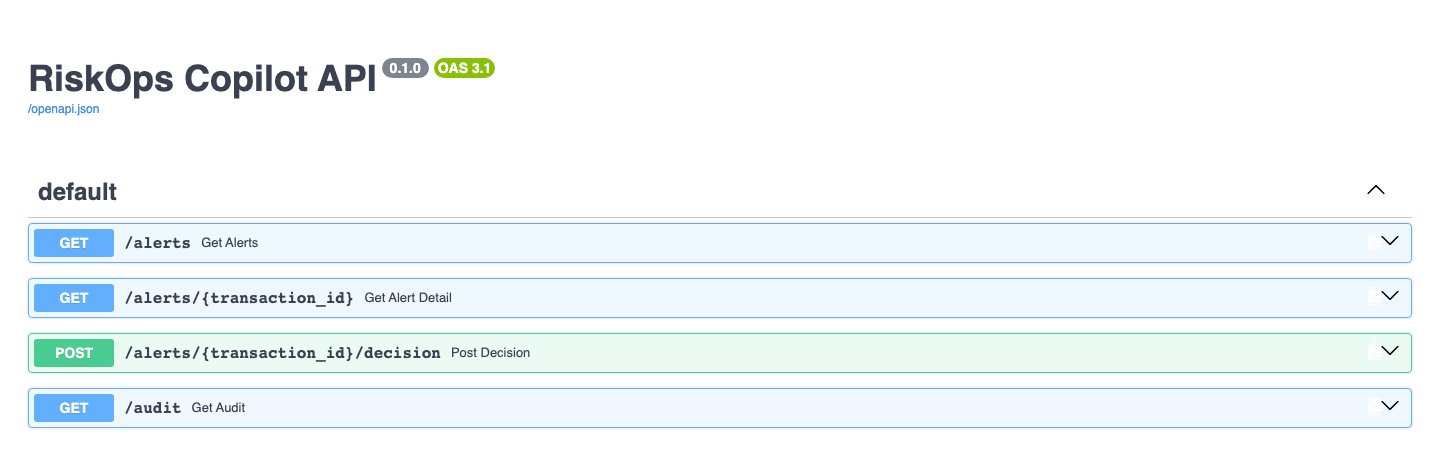
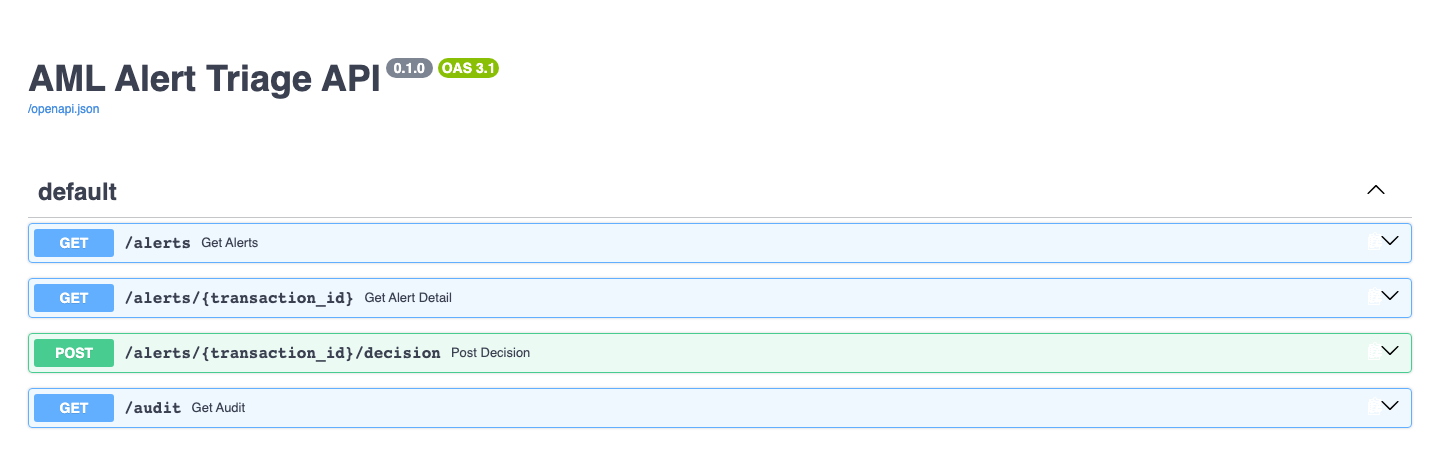
Clarifie la présentation et le positionnement du projet

Changed region(s): [[0.0, 0.1191, 0.3438, 0.2085]]

diff --git a/app_streamlit.py b/app_streamlit.py
@@ -7,8 +7,8 @@ import streamlit as st
 
 API_URL = os.environ.get("API_URL", "http://localhost:8000")
 
-st.set_page_config(page_title="RiskOps Copilot", layout="wide")
-st.title("RiskOps Copilot — Triage d'alertes AML")
+st.set_page_config(page_title="Triage d'alertes AML", layout="wide")
+st.title("Triage d'alertes AML")
 
 with st.sidebar:
     st.subheader("File d'alertes prioritaires")

diff --git a/src/riskops/api.py b/src/riskops/api.py
@@ -40,7 +40,7 @@ async def lifespan(app: FastAPI):
     yield
 
 
-app = FastAPI(title="RiskOps Copilot API", version="0.1.0", lifespan=lifespan)
+app = FastAPI(title="AML Alert Triage API", version="0.1.0", lifespan=lifespan)
 
 
 def load_artifacts():

diff --git a/README.md b/README.md
@@ -1,34 +1,37 @@
-# RiskOps Copilot — Explainable AML Alert Triage
+# Triage explicable d'alertes AML
 
-Système de priorisation d'alertes anti-blanchiment (AML) explicable et contrôlé :
-score ML, facteurs SHAP, historique de compte, synthèse LLM structurée, décision
-analyste avec justification obligatoire, journal d'audit versionné.
+Petit projet pour tester une idée simple : un modèle qui score les
+transactions suspectes, c'est bien, mais un analyste ne va pas faire
+confiance à un chiffre qu'il ne peut pas expliquer. Ici chaque score vient
+avec ses facteurs SHAP, un historique de compte, une synthèse LLM qui
+reformule (jamais qui décide), et la décision finale reste humaine —
+justification obligatoire, tout est journalisé.
 
 ## Stack
 
-Python · pandas · scikit-learn · XGBoost · SHAP · FastAPI · Pydantic · Streamlit ·
-SQLite · Claude (synthèse LLM) · Docker · pytest · GitHub Actions.
+Python, pandas, scikit-learn, XGBoost, SHAP, FastAPI, Pydantic, Streamlit,
+SQLite, Claude pour la synthèse, Docker, pytest, GitHub Actions.
 
-Ce README couvre l'usage (quickstart, tests, résultats). Pour le raisonnement
-derrière chaque choix — enjeux métier, arbitrages techniques, alternatives
-écartées et pourquoi — voir [docs/CONCEPTION.md](docs/CONCEPTION.md).
+Ce README couvre l'usage (quickstart, tests, résultats). Le détail du
+raisonnement — pourquoi tel choix plutôt qu'un autre, ce qui a été écarté et
+pourquoi — est dans [docs/CONCEPTION.md](docs/CONCEPTION.md), je n'ai pas
+voulu tout mettre ici pour garder ce fichier lisible.
 
-## Démonstration
+## À quoi ça ressemble
 
-UI analyste (Streamlit) : file d'alertes triée par score, score ML et seuil
-courant, facteurs explicatifs SHAP transaction par transaction, historique du
-compte, décision avec justification obligatoire et journal d'audit des
-décisions déjà prises.
+Un analyste ouvre l'UI, voit la file d'alertes triée par score, clique sur
+une transaction : score, seuil courant, facteurs SHAP qui expliquent le
+score, historique du compte, et à droite la décision à prendre.
 
 ![Vue d'ensemble de l'UI analyste : file d'alertes, score, facteurs SHAP et décision](docs/screenshots/ui_overview.png)
 
-Synthèse LLM structurée (résumé, signaux d'alerte, action recommandée) sous
-les facteurs SHAP, et journal d'audit des décisions passées :
+Plus bas, la synthèse LLM (résumé en langage clair des facteurs SHAP, pas
+une analyse indépendante) et le journal des décisions déjà prises :
 
 ![Synthèse LLM d'investigation et journal d'audit](docs/screenshots/ui_llm_synthesis.png)
 
-Documentation interactive de l'API FastAPI (`/docs`) : file d'alertes, détail
-explicable, enregistrement de décision, consultation de l'audit :
+Et côté API, la doc Swagger générée par FastAPI si vous préférez taper
+directement dans les endpoints :
 
 ![Documentation Swagger de l'API FastAPI](docs/screenshots/api_docs.png)
 
@@ -79,21 +82,27 @@ journal d'audit (justification/décision obligatoires), endpoints API
 
 ## Méthodologie
 
-- **Split chronologique** (70/15/15) train/val/test — jamais de mélange
-  temporel, pour simuler un déploiement réel où le modèle voit le futur après
-  entraînement sur le passé.
-- **Features "métier"** calculées uniquement sur l'historique passé de chaque
-  compte (compte de transactions antérieures, moyenne glissante des montants,
-  contreparties distinctes sur 7 jours, volume sur 24h) — pas de fuite.
-- **Deux modèles comparés** : Logistic Regression (baseline, `class_weight="balanced"`)
-  et XGBoost (`scale_pos_weight` ajusté au déséquilibre).
-- **Explicabilité** : SHAP TreeExplainer sur XGBoost, facteurs par transaction
-  exposés dans l'API et l'UI.
-- **Métriques** : volontairement *pas* d'accuracy (classe positive < 1%, un
-  modèle inutile atteindrait ~99.7% d'accuracy). On utilise PR-AUC,
-  precision@K, recall à budget d'investigation constant, alertes/10 000
-  transactions, et la réduction de faux positifs à recall comparable
-  (voir [`src/riskops/evaluate.py`](src/riskops/evaluate.py)).
+Quelques décisions qui comptent plus que les autres :
+
+- Split chronologique (70/15/15) train/val/test, jamais un mélange aléatoire
+  des lignes. L'idée c'est de simuler un vrai déploiement : le modèle
+  n'entraîne que sur du passé et se fait évaluer sur un futur qu'il n'a
+  jamais vu.
+- Les features "historique de compte" (nombre de transactions antérieures,
+  moyenne glissante des montants, contreparties distinctes sur 7 jours,
+  volume sur 24h) ne regardent que le passé de chaque compte. C'est le genre
+  de détail qu'on peut louper facilement et qui fausse tout après coup.
+- Deux modèles comparés, pas un seul : régression logistique en baseline
+  (`class_weight="balanced"`) et XGBoost (`scale_pos_weight` ajusté au
+  déséquilibre), pour pouvoir chiffrer l'apport du second plutôt que
+  l'affirmer.
+- SHAP TreeExplainer sur XGBoost pour l'explicabilité, facteur par
+  transaction, exposé tel quel dans l'API et l'UI.
+- Pas d'accuracy comme métrique — avec moins de 1% de positifs, un modèle qui
+  répond toujours "non suspect" atteindrait ~99.7% d'accuracy en étant
+  complètement inutile. On regarde plutôt le PR-AUC, la precision/recall à
+  budget d'investigation constant, et la réduction de faux positifs à recall
+  comparable (détail dans [`src/riskops/evaluate.py`](src/riskops/evaluate.py)).
 
 Résultats obtenus sur le jeu de test synthétique (13 jours, 60 transactions
 positives ; voir `models/metrics.json` — les chiffres exacts dépendent de la
@@ -104,22 +113,23 @@ seed et varient légèrement à chaque régénération des données) :
 | Logistic Regression (baseline) | 0.099 | 2.5% | 53.3% |
 | XGBoost | 0.087 | 3.0% | 65.0% |
 
-À recall égal (50%), XGBoost génère **854 alertes contre 1115 pour la
-régression logistique, soit -24% de faux positifs** (`fp_reduction_xgb_vs_logreg_at_equal_recall`
-dans `models/metrics.json`) : à qualité de détection comparable, XGBoost
-fait perdre moins de temps aux analystes sur des dossiers non-suspects.
-La precision@budget reste faible en absolu (~3%) car la classe positive est
-extrêmement rare (0.3% des transactions) : sur un budget de 1 300 dossiers
-(100/jour × 13 jours), la majorité des alertes sont des faux positifs même
-pour un bon modèle de triage — c'est attendu et c'est pourquoi le recall à
-budget constant, pas la precision seule, est le critère de choix du seuil.
+À recall égal (50%), XGBoost génère 854 alertes contre 1115 pour la
+régression logistique, soit -24% de faux positifs
+(`fp_reduction_xgb_vs_logreg_at_equal_recall` dans `models/metrics.json`) : à
+qualité de détection comparable, il fait perdre moins de temps aux analystes
+sur des dossiers non-suspects. La precision@budget reste faible en absolu
+(~3%), mais c'est normal vu que la classe positive est extrêmement rare
+(0.3% des transactions) : sur un budget de 1 300 dossiers (100/jour × 13
+jours), la majorité des alertes seront des faux positifs même avec un bon
+modèle de triage. C'est justement pour ça qu'on regarde le recall à budget
+constant plutôt que la precision seule pour choisir le seuil.
 
 ## Business case : quel seuil pour 100 dossiers/jour ?
 
 Un analyste ne peut traiter qu'un nombre fini de dossiers par jour. Le vrai
-levier métier n'est pas "améliorer le modèle" dans l'absolu, mais **choisir le
+levier métier n'est pas "améliorer le modèle" dans l'absolu, mais choisir le
 seuil qui maximise les transactions suspectes détectées sous la contrainte de
-capacité d'investigation**. `src/riskops/evaluate.business_case_sweep` calcule,
+capacité d'investigation. `src/riskops/evaluate.business_case_sweep` calcule,
 pour plusieurs capacités quotidiennes, le seuil correspondant, le recall
 obtenu et la précision :
 
@@ -135,20 +145,19 @@ python src/riskops/train.py   # écrit models/business_case.csv
 | 200 | 0.028 | 86.7% | 2.00% | 52 |
 | 300 | 0.014 | 93.3% | 1.44% | 56 |
 
-**Lecture métier** : entre 50 et 100 dossiers/jour, chaque dossier
-d'investigation supplémentaire rapporte encore ~0.24 cas de blanchiment détecté
-en plus (+20 points de recall pour +50 dossiers/jour). Entre 100 et 300, le
-rendement marginal chute nettement (+28 points de recall pour +200 dossiers/
-jour, soit un rendement par dossier ~4x plus faible) car les transactions
-ajoutées au budget ont un score de plus en plus faible, donc une probabilité
-de blanchiment de plus en plus faible. **Avec une capacité de 100 dossiers
-examinés par jour, le seuil ≈ 0.085 est le point qui capture 65% des cas de
-blanchiment du test (39/60) sans dépasser la capacité opérationnelle** — c'est
-ce seuil qui est utilisé par défaut par l'API
-(`DAILY_INVESTIGATION_CAPACITY = 100` dans `src/riskops/train.py`). Pousser la
-capacité à 300/jour ne rapporterait que 17 détections de plus pour 3x plus de
-charge analyste — un arbitrage clairement défavorable sauf si le coût unitaire
-d'un blanchiment manqué est jugé extrême.
+Lecture métier : entre 50 et 100 dossiers/jour, chaque dossier
+d'investigation supplémentaire rapporte encore ~0.24 cas de blanchiment
+détecté en plus (+20 points de recall pour +50 dossiers/jour). Entre 100 et
+300, le rendement marginal chute nettement (+28 points de recall pour +200
+dossiers/jour, soit un rendement par dossier ~4x plus faible), parce que les
+transactions ajoutées au budget ont un score de plus en plus faible donc une
+probabilité de blanchiment de plus en plus faible. Avec une capacité de 100
+dossiers par jour, le seuil ≈ 0.085 capture 65% des cas de blanchiment du
+test (39/60) sans dépasser la capacité opérationnelle — c'est ce seuil qui
+est utilisé par défaut par l'API (`DAILY_INVESTIGATION_CAPACITY = 100` dans
+`src/riskops/train.py`). Monter à 300/jour ne rapporterait que 17 détections
+de plus pour 3x plus de charge analyste, un arbitrage clairement défavorable
+sauf si le coût d'un blanchiment manqué est jugé vraiment extrême.
 
 Coût/gain : chaque faux positif en moins à recall constant (ici -24% de FP
 pour XGBoost vs la baseline, voir plus haut) libère du temps analyste

diff --git a/docs/CONCEPTION.md b/docs/CONCEPTION.md
@@ -1,9 +1,8 @@
-# Note de conception — RiskOps Copilot
+# Note de conception
 
-Ce document explique **pourquoi** le système est construit comme il l'est : les
-enjeux métier et techniques qui contraignent les choix, les alternatives
-écartées, et les limites assumées. Le [README](../README.md) répond à
-« comment l'utiliser » ; ce document répond à « pourquoi c'est fait ainsi ».
+Le README dit comment utiliser le projet. Ce document dit pourquoi il est
+construit comme ça : les contraintes métier et techniques qui ont pesé sur
+chaque choix, ce qui a été écarté et pourquoi, et les limites qu'on assume.
 
 ## 1. Le problème que le système doit réellement résoudre
 
@@ -25,18 +24,16 @@ classe correctement le haut du classement** (les N transactions les plus
 suspectes, N = capacité analyste), et qui rend chaque décision **contestable
 et traçable** plutôt qu'opaque.
 
-Trois contraintes non négociables en découlent, posées par le contexte
-bancaire/réglementaire plus que par la donnée elle-même :
-
-1. **Explicabilité** : un analyste (et un régulateur, a posteriori) doit
-   pouvoir comprendre pourquoi une transaction a été remontée.
-2. **Contrôle humain** : le modèle priorise, il ne décide jamais seul —
-   toute action (Clear/Investigate/Escalate) doit être un acte humain
-   justifié.
-3. **Traçabilité** : chaque décision doit être journalisée avec le contexte
-   qui l'a produite (version du modèle, seuil, score, données vues), pour
-   pouvoir répondre a posteriori à « pourquoi a-t-on laissé passer / bloqué
-   cette transaction ? ».
+De là découlent trois contraintes non négociables, posées par le contexte
+bancaire/réglementaire plus que par la donnée elle-même. D'abord
+l'explicabilité : un analyste, et un régulateur a posteriori, doit pouvoir
+comprendre pourquoi une transaction a été remontée. Ensuite le contrôle
+humain : le modèle priorise, il ne décide jamais seul, toute action
+(Clear/Investigate/Escalate) reste un acte humain justifié. Et enfin la
+traçabilité : chaque décision est journalisée avec le contexte qui l'a
+produite (version du modèle, seuil, score, données vues), pour pouvoir
+répondre après coup à "pourquoi a-t-on laissé passer / bloqué cette
+transaction ?".
 
 ## 2. Enjeux techniques et comment ils ont façonné le pipeline
 
@@ -116,29 +113,26 @@ qu'il se traduit directement en charge analyste économisée.
 Deux risques spécifiques aux LLM dans un contexte de décision réglementée :
 l'hallucination (inventer un fait absent du contexte) et la sortie non
 structurée (impossible à valider ou à afficher de façon fiable dans l'UI).
-Conséquences de conception dans
+Ça se traduit concrètement dans
 [`llm_summary.py`](../src/riskops/llm_summary.py) et
-[`schemas.py`](../src/riskops/schemas.py) :
+[`schemas.py`](../src/riskops/schemas.py) par quatre garde-fous.
 
-- **Schéma Pydantic forcé** (`LLMSynthesis`) : le prompt système exige un
-  JSON conforme à un schéma précis, et toute sortie qui ne valide pas contre
-  ce schéma est rejetée (`ValidationError` → fallback), jamais affichée
-  telle quelle. On ne fait jamais confiance à du texte libre.
-- **Contexte fourni au LLM = uniquement les facteurs SHAP déjà calculés**, pas
-  la transaction brute ni une invitation à « analyser » — le LLM synthétise
-  une explication déjà produite statistiquement, il n'en invente pas une.
-- **Fallback déterministe sans clé API** : le système fonctionne à l'identique
-  (mêmes endpoints, même schéma de sortie) sans `ANTHROPIC_API_KEY`, avec une
-  synthèse template basée directement sur les facteurs SHAP. Ce n'est pas
-  qu'une commodité de démo : ça garantit que la disponibilité du système de
-  triage ne dépend jamais de la disponibilité d'un fournisseur LLM externe —
-  un système de contrôle des risques qui tombe en panne parce qu'une API tierce
-  est indisponible est un risque opérationnel en soi.
-- **La synthèse LLM n'apparaît jamais seule** : elle est toujours affichée à
-  côté des facteurs SHAP bruts dans l'UI, et la décision + justification
-  reste un champ texte rempli par l'analyste, jamais pré-rempli par le LLM.
-  Le workflow ne permet pas de valider une décision sans justification humaine
-  d'au moins 10 caractères, LLM ou pas (`DecisionRequest` dans `schemas.py`).
+Le schéma Pydantic est forcé (`LLMSynthesis`) : le prompt système exige un
+JSON conforme, et toute sortie qui ne valide pas est rejetée
+(`ValidationError` → fallback) plutôt qu'affichée telle quelle. On ne fait
+jamais confiance à du texte libre. Le contexte donné au LLM se limite aux
+facteurs SHAP déjà calculés, jamais la transaction brute ni une invitation à
+"analyser" — il reformule une explication déjà produite statistiquement, il
+n'en invente pas une nouvelle. Sans clé API, un fallback déterministe prend
+le relais : mêmes endpoints, même schéma de sortie, une synthèse construite
+directement à partir des facteurs SHAP. Ce n'est pas qu'une commodité de
+démo, ça évite qu'un système de contrôle des risques tombe en panne parce
+qu'un fournisseur LLM externe est indisponible. Et la synthèse n'apparaît
+jamais seule : elle reste à côté des facteurs SHAP bruts dans l'UI, la
+décision et sa justification restent un champ texte rempli par l'analyste,
+jamais pré-rempli par le LLM — impossible de valider une décision sans au
+moins 10 caractères de justification humaine (`DecisionRequest` dans
+`schemas.py`).
 
 ### 2.6 Journal d'audit : SQLite, pas de service externe
 
